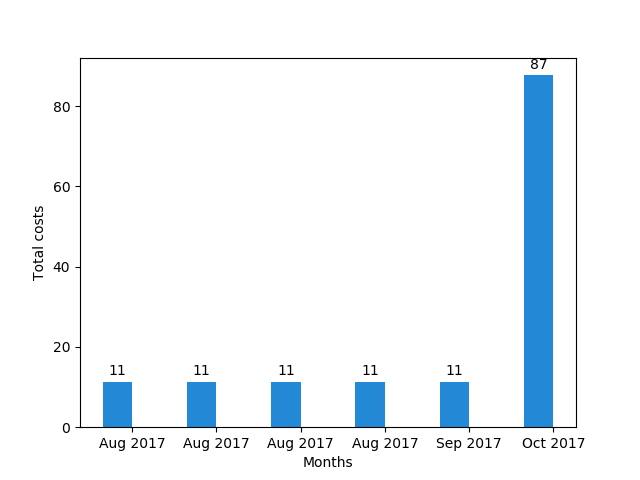
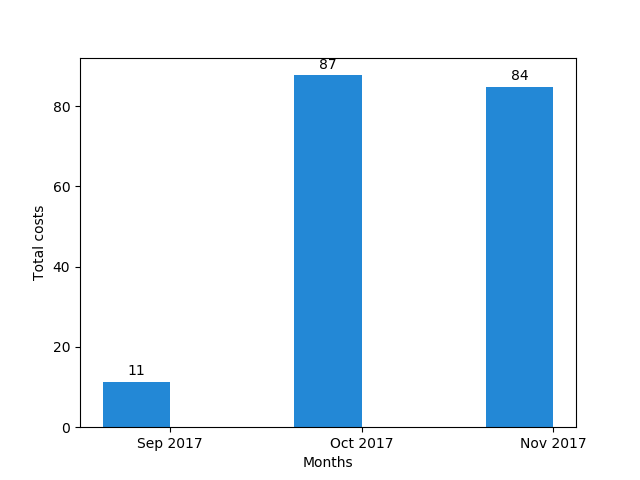
fixing initial graph

diff --git a/common/plotlyoff/testplotly.py b/common/plotlyoff/testplotly.py
@@ -5,16 +5,16 @@ import numpy as np
 
 myinput = """[
   {
-    "url": "https://api.etais.ee/api/invoices/b094173f50a848e19d3362c84eabebc4/",
-    "uuid": "b094173f50a848e19d3362c84eabebc4",
-    "number": 100096,
+    "url": "https://api.etais.ee/api/invoices/bb6f38e908e7493791c65b26e88e1619/",
+    "uuid": "bb6f38e908e7493791c65b26e88e1619",
+    "number": 100121,
     "customer": "https://api.etais.ee/api/customers/5991d0c109df4e8cab4f9dd660295517/",
-    "price": "87.7300000",
+    "price": "84.9000000",
     "tax": "0.0000000",
-    "total": "87.7300000",
+    "total": "84.9000000",
     "state": "pending",
     "year": 2017,
-    "month": 10,
+    "month": 11,
     "issuer_details": {
       "phone": {
         "national_number": "5555555",
@@ -32,6 +32,63 @@ myinput = """[
     },
     "invoice_date": null,
     "due_date": null,
+    "customer_details": null,
+    "openstack_items": [
+      {
+        "name": "WaldurChatbot (Small / Generic)",
+        "price": 84.9,
+        "tax": "0.0000000",
+        "total": "84.9000000",
+        "unit_price": "2.8300000",
+        "unit": "day",
+        "start": "2017-11-01T00:00:00Z",
+        "end": "2017-11-30T23:59:59.999999Z",
+        "product_code": "",
+        "article_code": "",
+        "project_name": "Waldur Chatbot testbed",
+        "project_uuid": "88879e68a4c84f6ea0e05fb9bc59ea8f",
+        "scope_type": "OpenStack.Tenant",
+        "scope_uuid": "ed505f9ebd8c491b94c6f8dfc30b54b0",
+        "package": "https://api.etais.ee/api/openstack-packages/517047bdfefe418899c981663f1ea5f5/",
+        "tenant_name": "WaldurChatbot",
+        "tenant_uuid": "ed505f9ebd8c491b94c6f8dfc30b54b0",
+        "usage_days": 30,
+        "template_name": "Generic",
+        "template_uuid": "a85daef727d344b3858541e4bc29a274",
+        "template_category": "Small"
+      }
+    ],
+    "offering_items": [],
+    "generic_items": []
+  },
+  {
+    "url": "https://api.etais.ee/api/invoices/b094173f50a848e19d3362c84eabebc4/",
+    "uuid": "b094173f50a848e19d3362c84eabebc4",
+    "number": 100096,
+    "customer": "https://api.etais.ee/api/customers/5991d0c109df4e8cab4f9dd660295517/",
+    "price": "87.7300000",
+    "tax": "0.0000000",
+    "total": "87.7300000",
+    "state": "created",
+    "year": 2017,
+    "month": 10,
+    "issuer_details": {
+      "phone": {
+        "national_number": "5555555",
+        "country_code": "372"
+      },
+      "account": "123456789",
+      "country_code": "EE",
+      "address": "Lille 4-205",
+      "country": "Estonia",
+      "company": "OpenNode",
+      "postal": "80041",
+      "vat_code": "EE123456789",
+      "email": "info@opennodecloud.com",
+      "bank": "Estonian Bank"
+    },
+    "invoice_date": "2017-11-01",
+    "due_date": "2017-12-01",
     "customer_details": null,
     "openstack_items": [
       {
@@ -117,234 +174,6 @@ myinput = """[
     ],
     "offering_items": [],
     "generic_items": []
-  },
-  {
-    "url": "https://api.etais.ee/api/invoices/b636ee1236e0486994cdd1ffda4c7e1d/",
-    "uuid": "b636ee1236e0486994cdd1ffda4c7e1d",
-    "number": 100076,
-    "customer": "https://api.etais.ee/api/customers/5991d0c109df4e8cab4f9dd660295517/",
-    "price": "5.3200000",
-    "tax": "0.0000000",
-    "total": "11.3200000",
-    "state": "created",
-    "year": 2017,
-    "month": 8,
-    "issuer_details": {
-      "phone": {
-        "national_number": "5555555",
-        "country_code": "372"
-      },
-      "account": "123456789",
-      "country_code": "EE",
-      "address": "Lille 4-205",
-      "country": "Estonia",
-      "company": "OpenNode",
-      "postal": "80041",
-      "vat_code": "EE123456789",
-      "email": "info@opennodecloud.com",
-      "bank": "Estonian Bank"
-    },
-    "invoice_date": "2017-10-01",
-    "due_date": "2017-10-31",
-    "customer_details": null,
-    "openstack_items": [
-      {
-        "name": "WaldurChatbot (Small / Generic)",
-        "price": 11.32,
-        "tax": "0.0000000",
-        "total": "11.3200000",
-        "unit_price": "2.8300000",
-        "unit": "day",
-        "start": "2017-09-27T13:53:31.425080Z",
-        "end": "2017-09-30T23:59:59.999999Z",
-        "product_code": "",
-        "article_code": "",
-        "project_name": "Waldur Chatbot testbed",
-        "project_uuid": "88879e68a4c84f6ea0e05fb9bc59ea8f",
-        "scope_type": "OpenStack.Tenant",
-        "scope_uuid": "ed505f9ebd8c491b94c6f8dfc30b54b0",
-        "package": "https://api.etais.ee/api/openstack-packages/517047bdfefe418899c981663f1ea5f5/",
-        "tenant_name": "WaldurChatbot",
-        "tenant_uuid": "ed505f9ebd8c491b94c6f8dfc30b54b0",
-        "usage_days": 4,
-        "template_name": "Generic",
-        "template_uuid": "a85daef727d344b3858541e4bc29a274",
-        "template_category": "Small"
-      }
-    ],
-    "offering_items": [],
-    "generic_items": []
-  },
-  {
-    "url": "https://api.etais.ee/api/invoices/b636ee1236e0486994cdd1ffda4c7e1d/",
-    "uuid": "b636ee1236e0486994cdd1ffda4c7e1d",
-    "number": 100076,
-    "customer": "https://api.etais.ee/api/customers/5991d0c109df4e8cab4f9dd660295517/",
-    "price": "5.3200000",
-    "tax": "0.0000000",
-    "total": "11.3200000",
-    "state": "created",
-    "year": 2017,
-    "month": 8,
-    "issuer_details": {
-      "phone": {
-        "national_number": "5555555",
-        "country_code": "372"
-      },
-      "account": "123456789",
-      "country_code": "EE",
-      "address": "Lille 4-205",
-      "country": "Estonia",
-      "company": "OpenNode",
-      "postal": "80041",
-      "vat_code": "EE123456789",
-      "email": "info@opennodecloud.com",
-      "bank": "Estonian Bank"
-    },
-    "invoice_date": "2017-10-01",
-    "due_date": "2017-10-31",
-    "customer_details": null,
-    "openstack_items": [
-      {
-        "name": "WaldurChatbot (Small / Generic)",
-        "price": 11.32,
-        "tax": "0.0000000",
-        "total": "11.3200000",
-        "unit_price": "2.8300000",
-        "unit": "day",
-        "start": "2017-09-27T13:53:31.425080Z",
-        "end": "2017-09-30T23:59:59.999999Z",
-        "product_code": "",
-        "article_code": "",
-        "project_name": "Waldur Chatbot testbed",
-        "project_uuid": "88879e68a4c84f6ea0e05fb9bc59ea8f",
-        "scope_type": "OpenStack.Tenant",
-        "scope_uuid": "ed505f9ebd8c491b94c6f8dfc30b54b0",
-        "package": "https://api.etais.ee/api/openstack-packages/517047bdfefe418899c981663f1ea5f5/",
-        "tenant_name": "WaldurChatbot",
-        "tenant_uuid": "ed505f9ebd8c491b94c6f8dfc30b54b0",
-        "usage_days": 4,
-        "template_name": "Generic",
-        "template_uuid": "a85daef727d344b3858541e4bc29a274",
-        "template_category": "Small"
-      }
-    ],
-    "offering_items": [],
-    "generic_items": []
-  },
-  {
-    "url": "https://api.etais.ee/api/invoices/b636ee1236e0486994cdd1ffda4c7e1d/",
-    "uuid": "b636ee1236e0486994cdd1ffda4c7e1d",
-    "number": 100076,
-    "customer": "https://api.etais.ee/api/customers/5991d0c109df4e8cab4f9dd660295517/",
-    "price": "5.3200000",
-    "tax": "0.0000000",
-    "total": "11.3200000",
-    "state": "created",
-    "year": 2017,
-    "month": 8,
-    "issuer_details": {
-      "phone": {
-        "national_number": "5555555",
-        "country_code": "372"
-      },
-      "account": "123456789",
-      "country_code": "EE",
-      "address": "Lille 4-205",
-      "country": "Estonia",
-      "company": "OpenNode",
-      "postal": "80041",
-      "vat_code": "EE123456789",
-      "email": "info@opennodecloud.com",
-      "bank": "Estonian Bank"
-    },
-    "invoice_date": "2017-10-01",
-    "due_date": "2017-10-31",
-    "customer_details": null,
-    "openstack_items": [
-      {
-        "name": "WaldurChatbot (Small / Generic)",
-        "price": 11.32,
-        "tax": "0.0000000",
-        "total": "11.3200000",
-        "unit_price": "2.8300000",
-        "unit": "day",
-        "start": "2017-09-27T13:53:31.425080Z",
-        "end": "2017-09-30T23:59:59.999999Z",
-        "product_code": "",
-        "article_code": "",
-        "project_name": "Waldur Chatbot testbed",
-        "project_uuid": "88879e68a4c84f6ea0e05fb9bc59ea8f",
-        "scope_type": "OpenStack.Tenant",
-        "scope_uuid": "ed505f9ebd8c491b94c6f8dfc30b54b0",
-        "package": "https://api.etais.ee/api/openstack-packages/517047bdfefe418899c981663f1ea5f5/",
-        "tenant_name": "WaldurChatbot",
-        "tenant_uuid": "ed505f9ebd8c491b94c6f8dfc30b54b0",
-        "usage_days": 4,
-        "template_name": "Generic",
-        "template_uuid": "a85daef727d344b3858541e4bc29a274",
-        "template_category": "Small"
-      }
-    ],
-    "offering_items": [],
-    "generic_items": []
-  },
-  {
-    "url": "https://api.etais.ee/api/invoices/b636ee1236e0486994cdd1ffda4c7e1d/",
-    "uuid": "b636ee1236e0486994cdd1ffda4c7e1d",
-    "number": 100076,
-    "customer": "https://api.etais.ee/api/customers/5991d0c109df4e8cab4f9dd660295517/",
-    "price": "5.3200000",
-    "tax": "0.0000000",
-    "total": "11.3200000",
-    "state": "created",
-    "year": 2017,
-    "month": 8,
-    "issuer_details": {
-      "phone": {
-        "national_number": "5555555",
-        "country_code": "372"
-      },
-      "account": "123456789",
-      "country_code": "EE",
-      "address": "Lille 4-205",
-      "country": "Estonia",
-      "company": "OpenNode",
-      "postal": "80041",
-      "vat_code": "EE123456789",
-      "email": "info@opennodecloud.com",
-      "bank": "Estonian Bank"
-    },
-    "invoice_date": "2017-10-01",
-    "due_date": "2017-10-31",
-    "customer_details": null,
-    "openstack_items": [
-      {
-        "name": "WaldurChatbot (Small / Generic)",
-        "price": 11.32,
-        "tax": "0.0000000",
-        "total": "11.3200000",
-        "unit_price": "2.8300000",
-        "unit": "day",
-        "start": "2017-09-27T13:53:31.425080Z",
-        "end": "2017-09-30T23:59:59.999999Z",
-        "product_code": "",
-        "article_code": "",
-        "project_name": "Waldur Chatbot testbed",
-        "project_uuid": "88879e68a4c84f6ea0e05fb9bc59ea8f",
-        "scope_type": "OpenStack.Tenant",
-        "scope_uuid": "ed505f9ebd8c491b94c6f8dfc30b54b0",
-        "package": "https://api.etais.ee/api/openstack-packages/517047bdfefe418899c981663f1ea5f5/",
-        "tenant_name": "WaldurChatbot",
-        "tenant_uuid": "ed505f9ebd8c491b94c6f8dfc30b54b0",
-        "usage_days": 4,
-        "template_name": "Generic",
-        "template_uuid": "a85daef727d344b3858541e4bc29a274",
-        "template_category": "Small"
-      }
-    ],
-    "offering_items": [],
-    "generic_items": []
   }
 ]"""
 
@@ -380,6 +209,9 @@ result = collections.OrderedDict()
 for i in range(len(plotx)):
     result[plotx[i]] = float(ploty[i])
 '''
+
+print(plotx)
+print(ploty)
 
 N = len(ploty)
 

diff --git a/backend/waldur/logic/requests.py b/backend/waldur/logic/requests.py
@@ -290,7 +290,7 @@ class GetTotalCostGraphRequest(Request):
 
         for i in range(maxrange-1, -1, -1):
             plotx.append(num_to_month[data[i]['month']] + " " + str(data[i]['year']))
-            ploty.append(data[i]['total'])
+            ploty.append(float(data[i]['total']))
 
         graphdata['x'] = plotx
         graphdata['y'] = ploty
